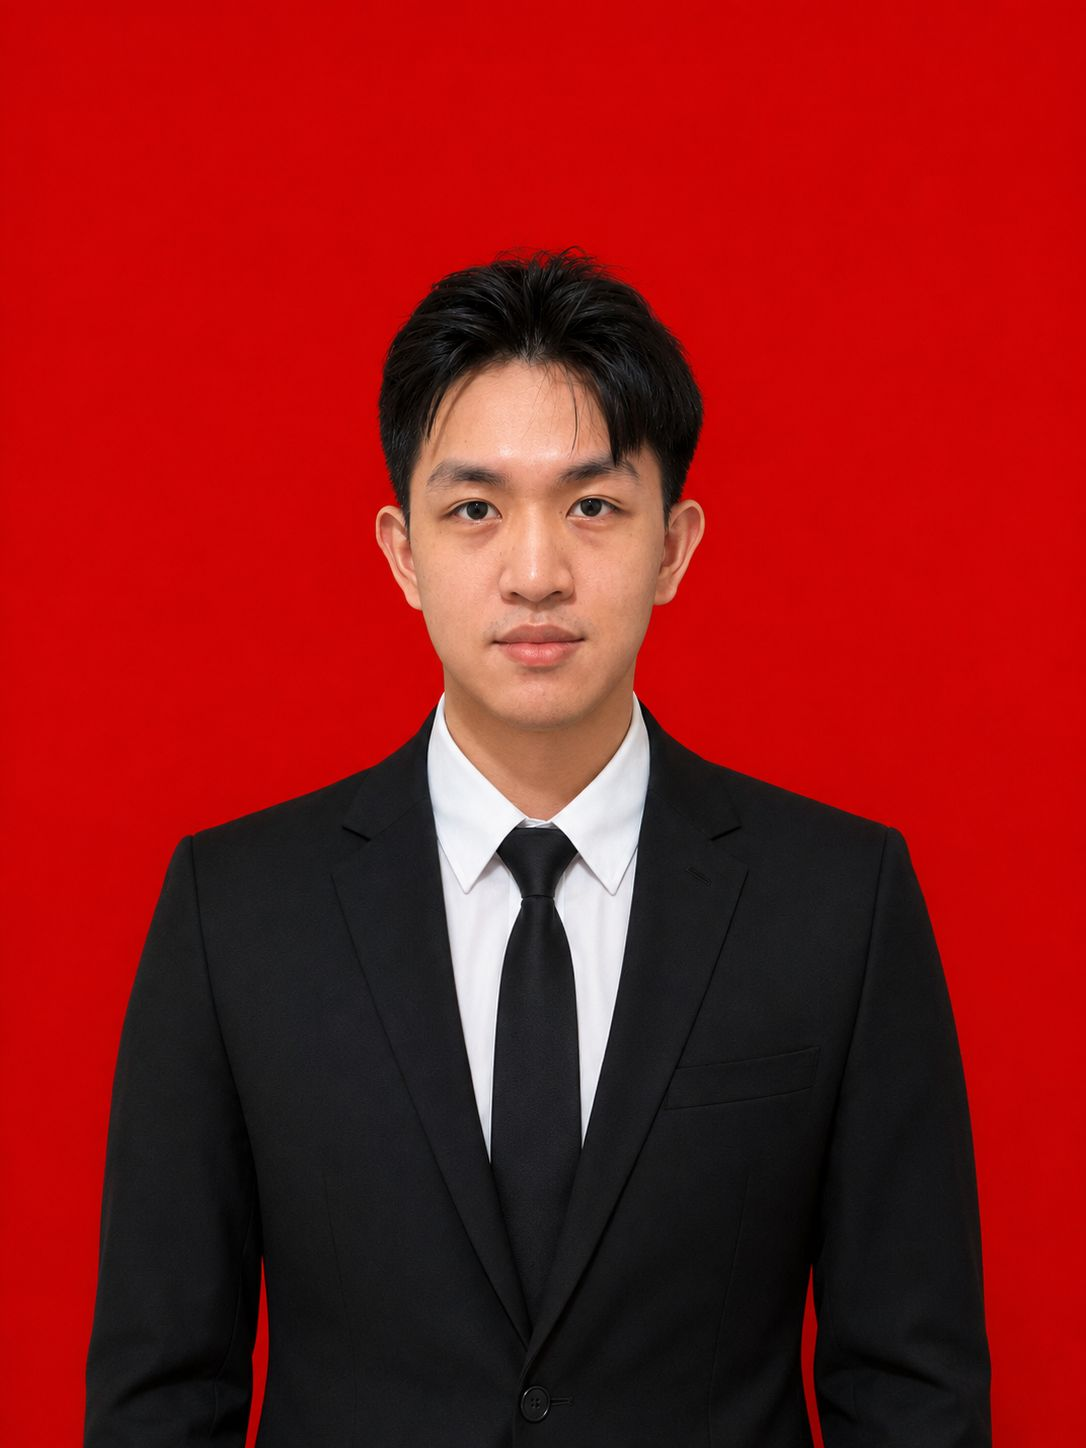
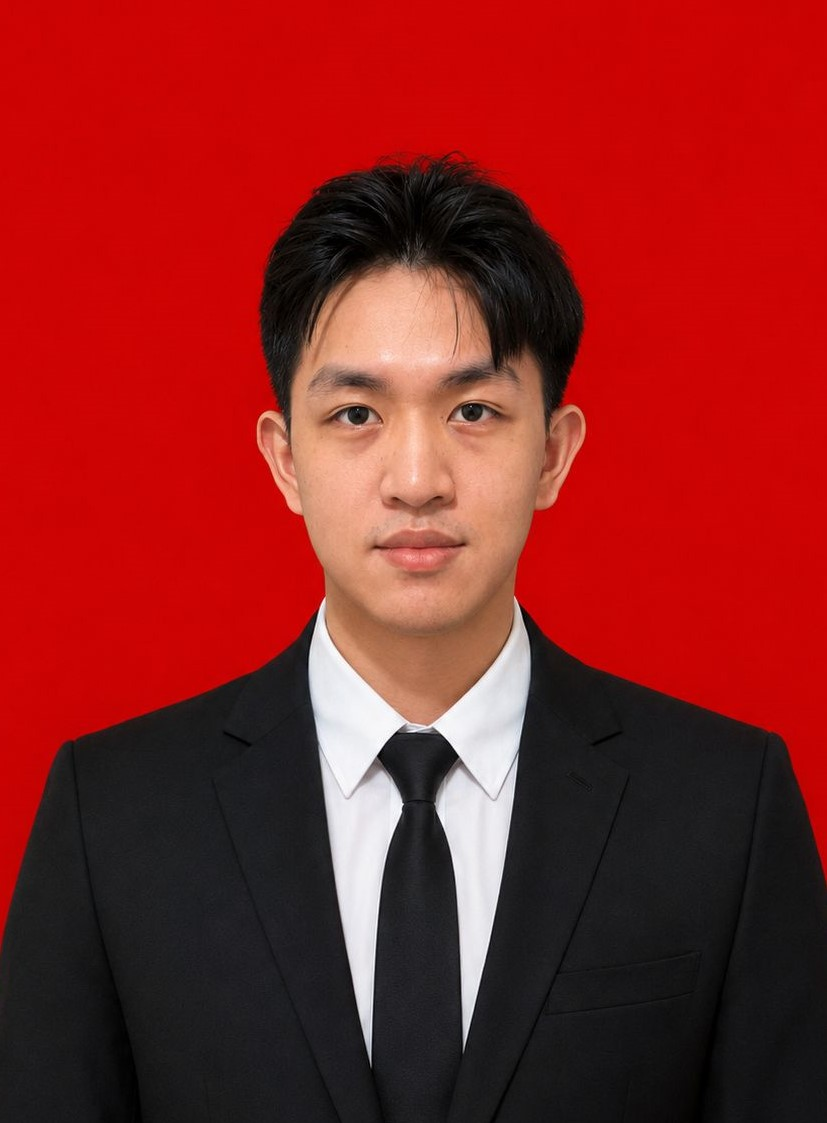
fix

diff --git a/index.html b/index.html
@@ -28,7 +28,7 @@
         <h1>Nathanael</h1>
     
     <div class="hero-face">
-        <img src="images/vincrnt.jpg" alt="Profile Face">
+        <img src="images/vincrnt.jpeg" alt="Profile Face">
     </div>
     <h1><em>Vincent</em></h1>
         <div class="hero-sub">
@@ -130,6 +130,17 @@
 
             <div class="projects-grid">
 
+
+                <a href="https://github.com/finsenn/ai-phishing-detector" target="_blank" class="project-card">
+                    <div class="project-img-slot">
+                        <img src="images/phishing.jpg" alt="AI Phishing Detector">
+                    </div>
+                    <div class="p-text">
+                        <span class="p-meta">Security Automation • 2026</span>
+                        <h3 class="p-title">AI Phishing Detector</h3>
+                        <span class="p-desc">n8n pipeline combining deterministic email signal extraction (DKIM/SPF/DMARC, lookalike domains, credential links) with LLM reasoning for explainable verdicts, logged to Sheets with real-time Telegram alerts.</span>
+                    </div>
+                </a>
                 <a href="https://github.com/finsenn/Active-Directory-Exploitation-Lab" class="project-card">
                     <div class="project-img1-slot">
                         <img src="images/adlogo.png" alt="AD Lab">
@@ -137,7 +148,7 @@
                     <div class="p-text">
                         <span class="p-meta">Offensive Security • 2026</span>
                         <h3 class="p-title">Active Directory Lab</h3>
-                        <span class="p-desc">Kerberoasting & GPO Exploitation env.</span>
+                        <span class="p-desc">A documented offensive security project simulating a full attack lifecycle against a Windows Active Directory environment, from LLMNR poisoning to Domain Admin compromise.</span>
                     </div>
                 </a>
 

diff --git a/style.css b/style.css
@@ -79,13 +79,14 @@ nav.scrolled {
 
 /* --- 3. HERO SECTION (Front Page) --- */
 header.hero {
-    height: 100vh;
+    min-height: 100vh;
+    position: relative;
     display: flex;
     flex-direction: column;
     justify-content: center;
     align-items: center;
     text-align: center;
-    padding: 0 2rem;
+    padding: 6rem 2rem 4rem;
 }
 
 .hero h1 {
